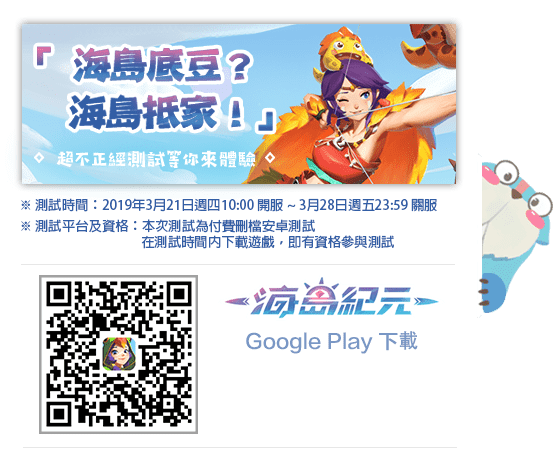
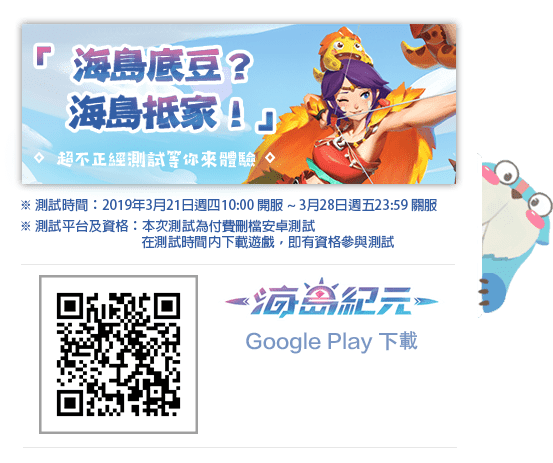
modify gp link

Changed region(s): [[0.0615, 0.6048, 0.3689, 0.9374], [0.5533, 0.3326, 0.6148, 0.3931]]

diff --git a/controllers/userController.js b/controllers/userController.js
@@ -26,7 +26,7 @@ exports.preregister = function(req,res,next){
     const target_count = 250000;
     const percentage = parseInt((user_registered/target_count)*100);
     //console.log("percentage server ", percentage)
-    
+    const GPlink ="https://play.google.com/store/apps/details?id=com.netease.hdjytw";
     page_options = {
         title,
         gift_data,
@@ -34,6 +34,7 @@ exports.preregister = function(req,res,next){
         meta_desc,
         user_registered,
         percentage,
+        GPlink,
     };
 
     if (res.locals.ismoble)
